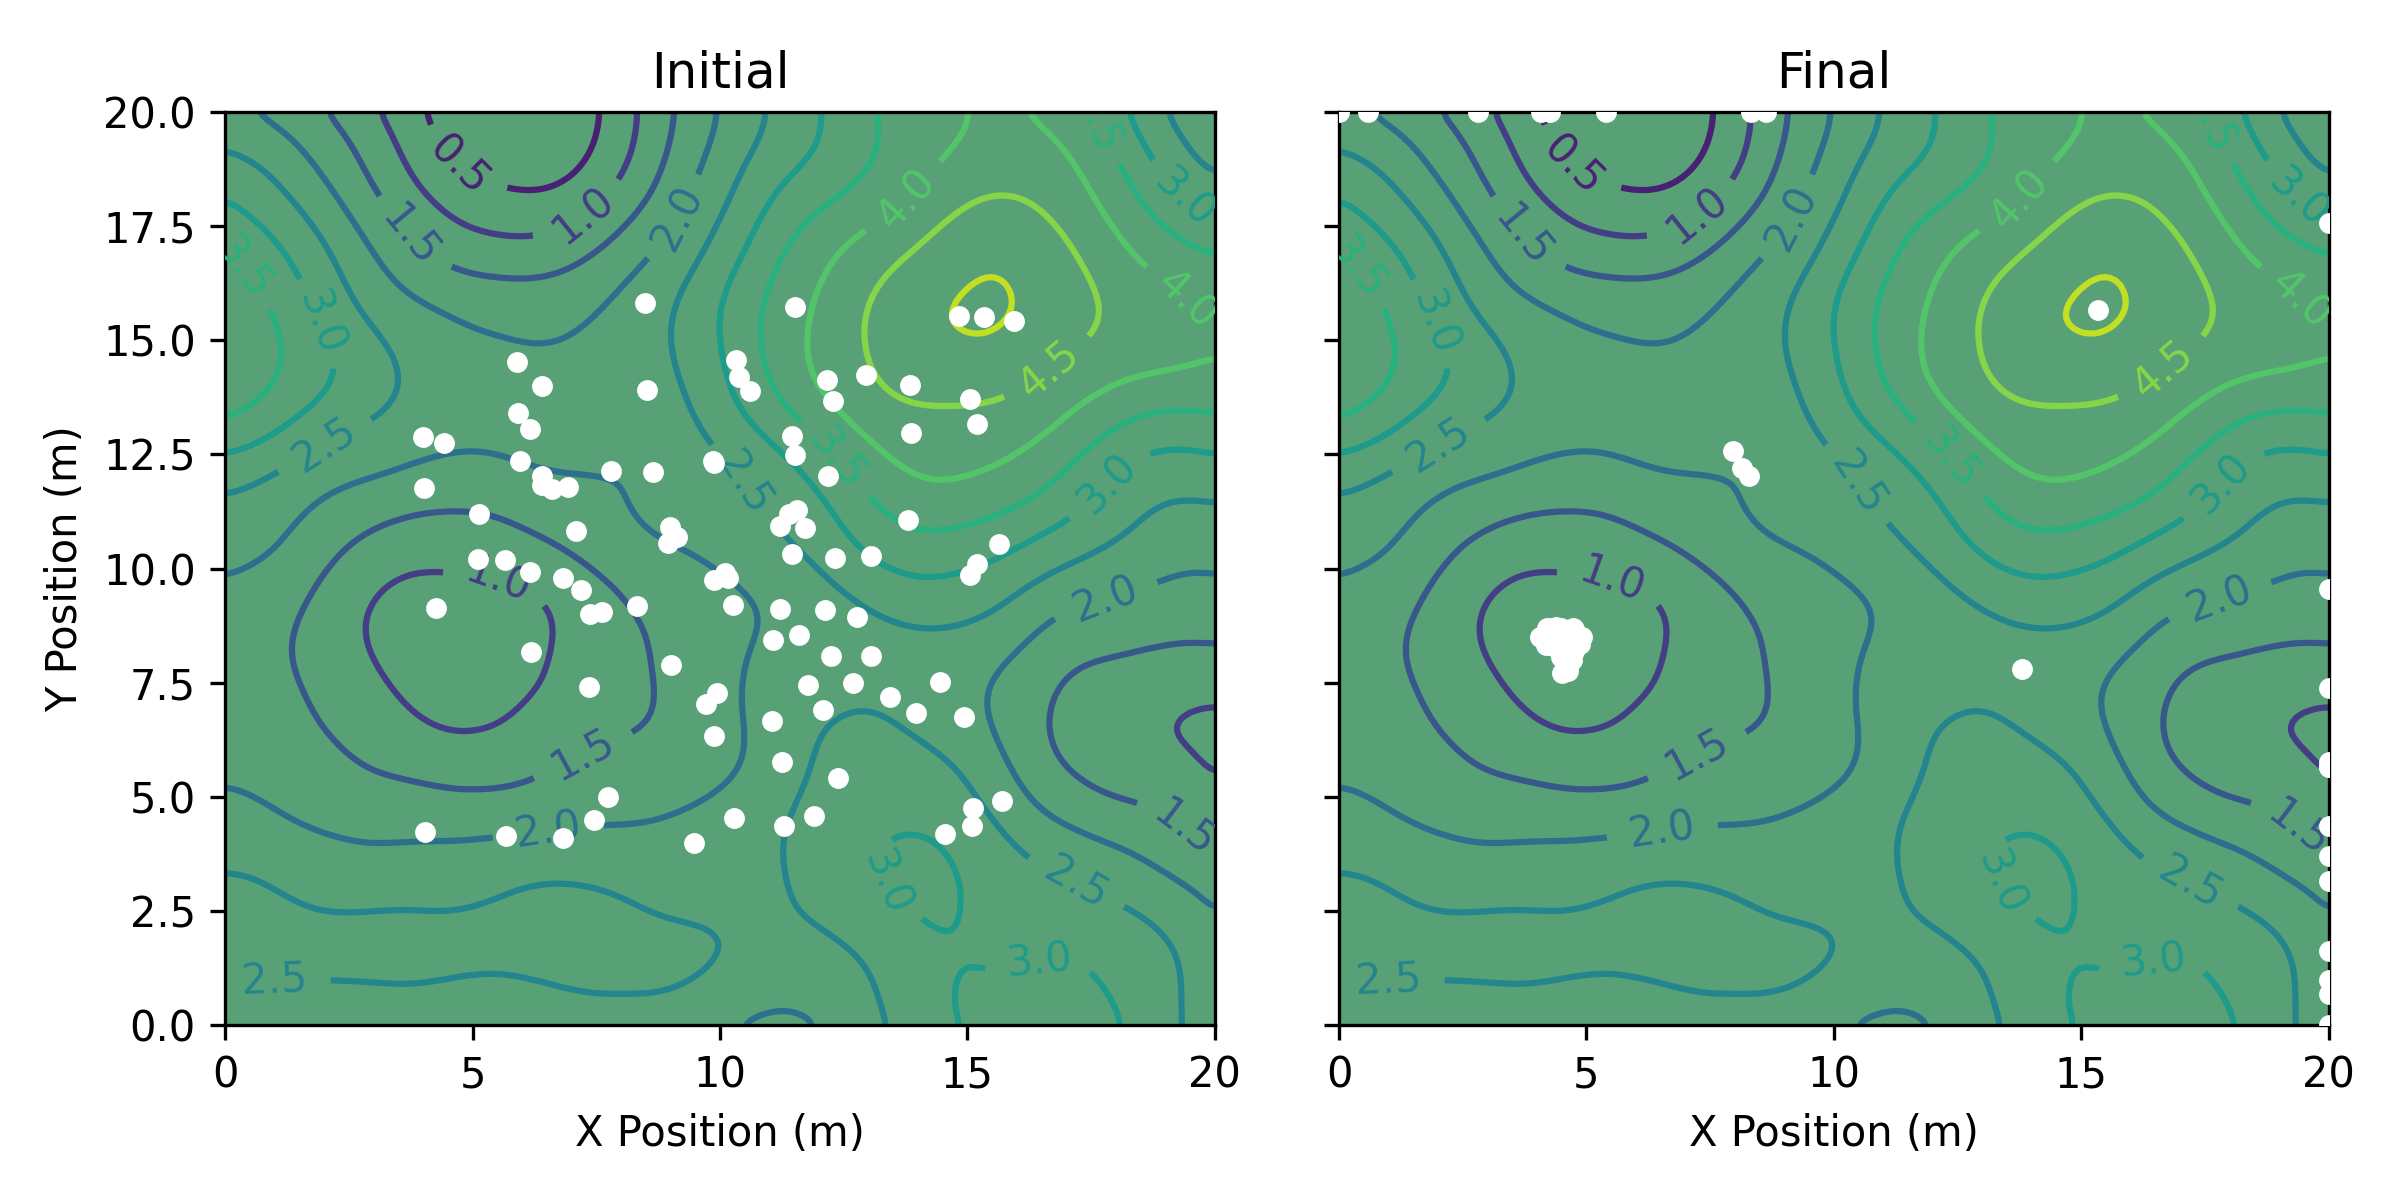
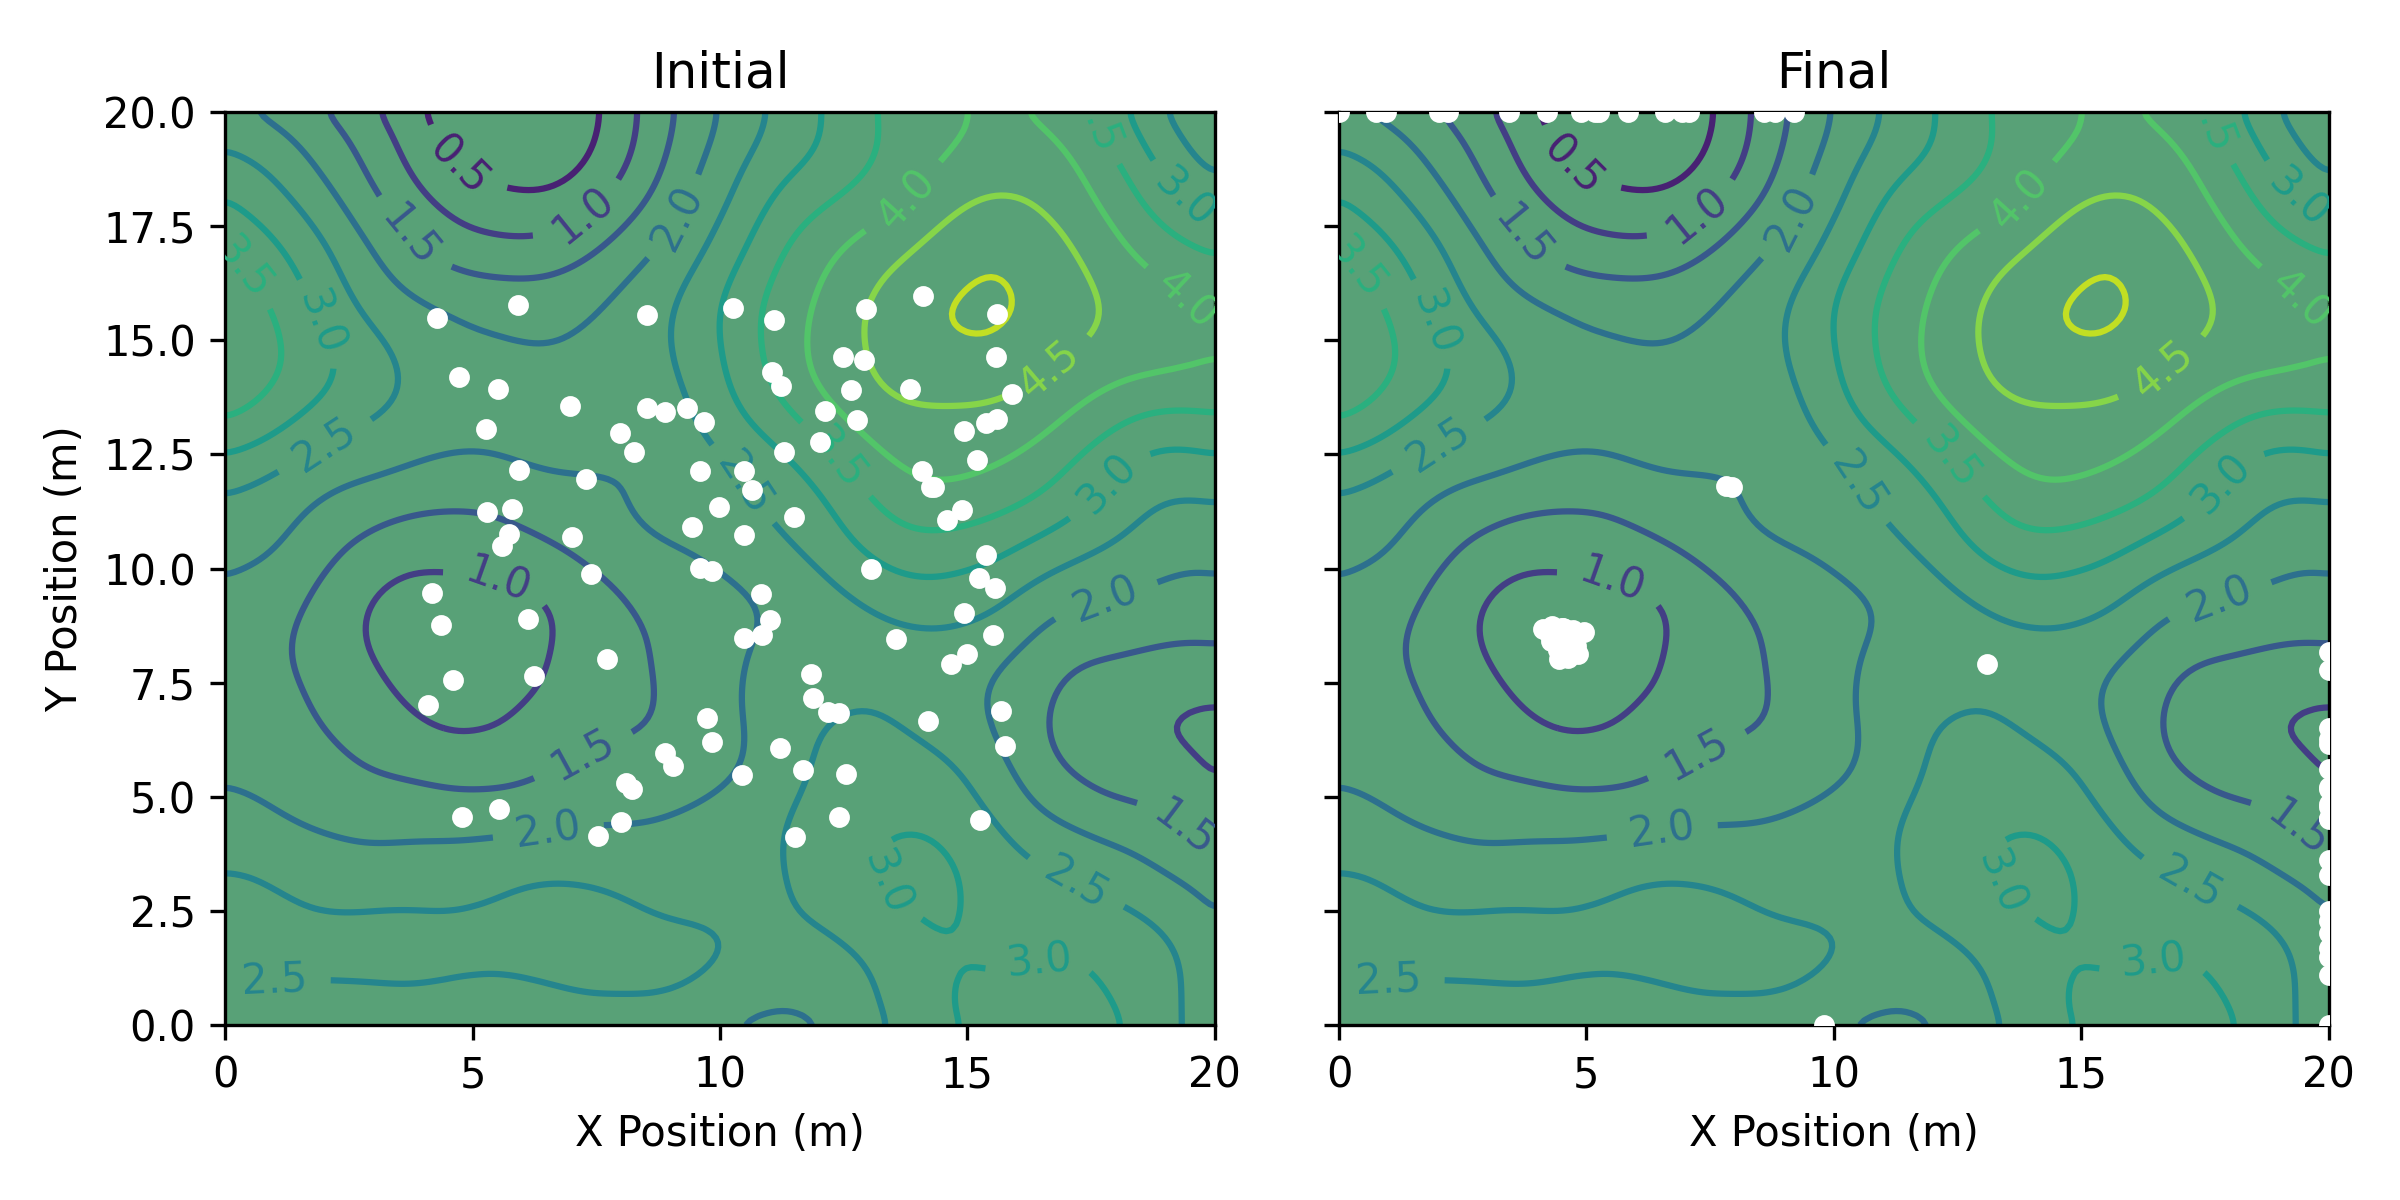
Improve usability
- Allow specifying seed for random generation
- Add logging
- Adjust color of the green

diff --git a/run_globus_compute.py b/run_globus_compute.py
@@ -1,6 +1,7 @@
 from __future__ import annotations
 
 import argparse
+import logging
 import sys
 from concurrent.futures import ProcessPoolExecutor
 from typing import Sequence
@@ -9,11 +10,14 @@ from globus_compute_sdk import Executor
 
 from simulation.config import SimulationConfig
 from simulation.config import TerrainConfig
+from simulation.plot import create_contour_plot
+from simulation.plot import create_terrain_plot
 from simulation.simulate import generate_initial_positions
 from simulation.simulate import generate_noisemap
 from simulation.simulate import generate_vertices
 from simulation.simulate import run_simulation
-from simulation.plot import create_contour_plot, create_terrain_plot
+
+logger = logging.getLogger('demo')
 
 
 def main(argv: Sequence[str] | None = None) -> int:
@@ -54,6 +58,12 @@ def main(argv: Sequence[str] | None = None) -> int:
     TerrainConfig.add_argument_group(parser)
     args = parser.parse_args(argv)
 
+    logging.basicConfig(
+        format='[%(levelname)s - %(asctime)s] (%(name)s) > %(message)s',
+        level=logging.INFO,
+        stream=sys.stdout,
+    )
+
     sim_config = SimulationConfig.from_args(args)
     terrain_config = TerrainConfig.from_args(args)
 
@@ -61,15 +71,24 @@ def main(argv: Sequence[str] | None = None) -> int:
     terrain_mesh = generate_vertices(terrain_heightmap, terrain_config)
 
     initial_positions = generate_initial_positions(
-        args.num_balls, terrain_config,
+        args.num_balls,
+        terrain_config,
+        seed=sim_config.seed,
     )
-    print(f'Generated {len(initial_positions)} initial positions')
+    logger.info(f'Generated {len(initial_positions)} initial position(s)')
 
     if args.endpoint:
         executor = Executor(endpoint_id=args.endpoint)
+        logger.info(
+            f'Initialized Globus Compute Executor with UUID {args.endpoint}',
+        )
     else:
         executor = ProcessPoolExecutor(args.process_pool)
+        logger.info(
+            f'Initialized process pool with {args.process_pool} workers',
+        )
 
+    logger.info('Submitting simulations')
     with executor:
         futures = [
             executor.submit(
@@ -82,10 +101,12 @@ def main(argv: Sequence[str] | None = None) -> int:
             )
             for position in initial_positions
         ]
+        logger.info('Simulations submitted')
+
         results = [future.result() for future in futures]
         final_positions = [pos for result in results for pos in result]
 
-    print(f'Received {len(final_positions)} final positions')
+    logger.info(f'Received {len(final_positions)} final position(s)')
 
     create_contour_plot(
         initial_positions,
@@ -94,8 +115,8 @@ def main(argv: Sequence[str] | None = None) -> int:
         terrain_config,
         args.contour_plot,
     )
-    print(f'Saved contour map to {args.contour_plot}')
-    
+    logger.info(f'Saved contour map to {args.contour_plot}')
+
     create_terrain_plot(
         initial_positions,
         final_positions,
@@ -103,7 +124,9 @@ def main(argv: Sequence[str] | None = None) -> int:
         terrain_config,
         args.terrain_plot,
     )
-    print(f'Saved terrain map to {args.terrain_plot}')
+    logger.info(f'Saved terrain map to {args.terrain_plot}')
+
+    return 0
 
 
 if __name__ == '__main__':

diff --git a/run_single.py b/run_single.py
@@ -1,6 +1,7 @@
 from __future__ import annotations
 
 import argparse
+import logging
 import sys
 from typing import Sequence
 
@@ -10,6 +11,8 @@ from simulation.simulate import generate_initial_positions
 from simulation.simulate import generate_noisemap
 from simulation.simulate import generate_vertices
 from simulation.simulate import run_simulation
+
+logger = logging.getLogger('demo')
 
 
 def main(argv: Sequence[str] | None = None) -> int:
@@ -35,14 +38,24 @@ def main(argv: Sequence[str] | None = None) -> int:
     TerrainConfig.add_argument_group(parser)
     args = parser.parse_args(argv)
 
+    logging.basicConfig(
+        format='[%(levelname)s - %(asctime)s] (%(name)s) > %(message)s',
+        level=logging.INFO,
+        stream=sys.stdout,
+    )
+
     sim_config = SimulationConfig.from_args(args)
     terrain_config = TerrainConfig.from_args(args)
 
     terrain_heightmap = generate_noisemap(terrain_config)
     terrain_mesh = generate_vertices(terrain_heightmap, terrain_config)
 
-    initial_positions = generate_initial_positions(args.num_balls, terrain_config)
-    print(f'Generated {len(initial_positions)} initial positions')
+    initial_positions = generate_initial_positions(
+        args.num_balls,
+        terrain_config,
+        seed=sim_config.seed,
+    )
+    logger.info(f'Generated {len(initial_positions)} initial position(s)')
 
     final_positions = run_simulation(
         terrain_mesh,
@@ -51,7 +64,9 @@ def main(argv: Sequence[str] | None = None) -> int:
         terrain_config=terrain_config,
         gui=args.gui,
     )
-    print(f'Received {len(final_positions)} final positions')
+    logger.info(f'Received {len(final_positions)} final position(s)')
+
+    return 0
 
 
 if __name__ == '__main__':

diff --git a/simulation/simulate.py b/simulation/simulate.py
@@ -1,5 +1,6 @@
 from __future__ import annotations
 
+import logging
 import random
 import time
 from typing import Any
@@ -13,6 +14,8 @@ from noise import pnoise2
 from simulation.config import SimulationConfig
 from simulation.config import TerrainConfig
 
+logger = logging.getLogger(__name__)
+
 Position = tuple[float, float, float]
 Vertices = list[Position]
 Indices = list[int]
@@ -20,12 +23,16 @@ Terrain = tuple[Vertices, Indices]
 
 
 def generate_initial_positions(
-    num_balls: int, config: TerrainConfig,
+    num_balls: int,
+    config: TerrainConfig,
+    seed: int | None = None,
 ) -> list[Position]:
     buffer = 0.2 * config.width
     min_width, max_width = buffer, config.width - buffer
 
-    def _generate() -> tuple[float]:
+    random.seed(seed)
+
+    def _generate() -> Position:
         return (
             random.uniform(min_width, max_width),
             random.uniform(min_width, max_width),
@@ -158,7 +165,7 @@ def run_simulation(
         meshScale=[1, 1, 1],
         vertices=vertices,
         indices=indices,
-        rgbaColor=[0, 1, 0, 1],
+        rgbaColor=[88 / 255, 161 / 255, 119 / 255, 1],
         specularColor=[0.4, 0.4, 0],
     )
 
@@ -201,10 +208,17 @@ def run_simulation(
             ],
         )
 
+    logger.debug(
+        f'Simulating for {sim_config.total_time} '
+        f'({sim_config.tick_rate} steps per seconds)',
+    )
+
     for _ in range(sim_config.total_time * sim_config.tick_rate):
         p.stepSimulation()
         if gui:
             time.sleep(1 / sim_config.tick_rate)
+
+    logger.debug('Simulation completed')
 
     final_positions = [
         p.getBasePositionAndOrientation(ball_id)[0] for ball_id in ball_ids

diff --git a/simulation/config.py b/simulation/config.py
@@ -90,6 +90,7 @@ class SimulationConfig:
     ball_mass: float
     tick_rate: int
     total_time: int
+    seed: int | None
 
     @classmethod
     def add_argument_group(cls, parser: argparse.ArgumentParser) -> None:
@@ -118,6 +119,7 @@ class SimulationConfig:
             default=10,
             help='total number of seconds to run the simulation for',
         )
+        group.add_argument('--seed', type=int, help='random seed')
 
     @classmethod
     def from_args(cls, args: argparse.Namespace) -> SimulationConfig:
@@ -126,4 +128,5 @@ class SimulationConfig:
             ball_mass=args.ball_mass,
             tick_rate=args.tick_rate,
             total_time=args.total_time,
+            seed=args.seed,
         )

diff --git a/README.md b/README.md
@@ -11,10 +11,6 @@ A golf green is randomly generated using [Perlin noise](https://en.wikipedia.org
 
 ## Installation
 
-> [!WARNING]
-> We have encounter PyBullet crashes on Apple Silicon.
-> The Globus Compute script can still be run provided the Globus Compute Endpoint is running on Linux.
-
 1. **Clone the repository and navigate to the project directory:**
    ```bash
    git clone https://github.com/globus-labs/globus-compute-golf-demo
@@ -43,6 +39,10 @@ A golf green is randomly generated using [Perlin noise](https://en.wikipedia.org
    For more information on configuring Endpoints, check out the [docs](https://globus-compute.readthedocs.io/en/latest/endpoints/index.html).
 
 ## Visualize a Simulation
+
+> [!WARNING]
+> We have encountered PyBullet crashes on Apple Silicon.
+> The Globus Compute script in the following section can still be run provided the Globus Compute Endpoint is running on Linux.
 
 We will start with running a single simulation locally to visualize what the simulation looks like.
 This will generate a random terrain and drop a ball at a random position.
